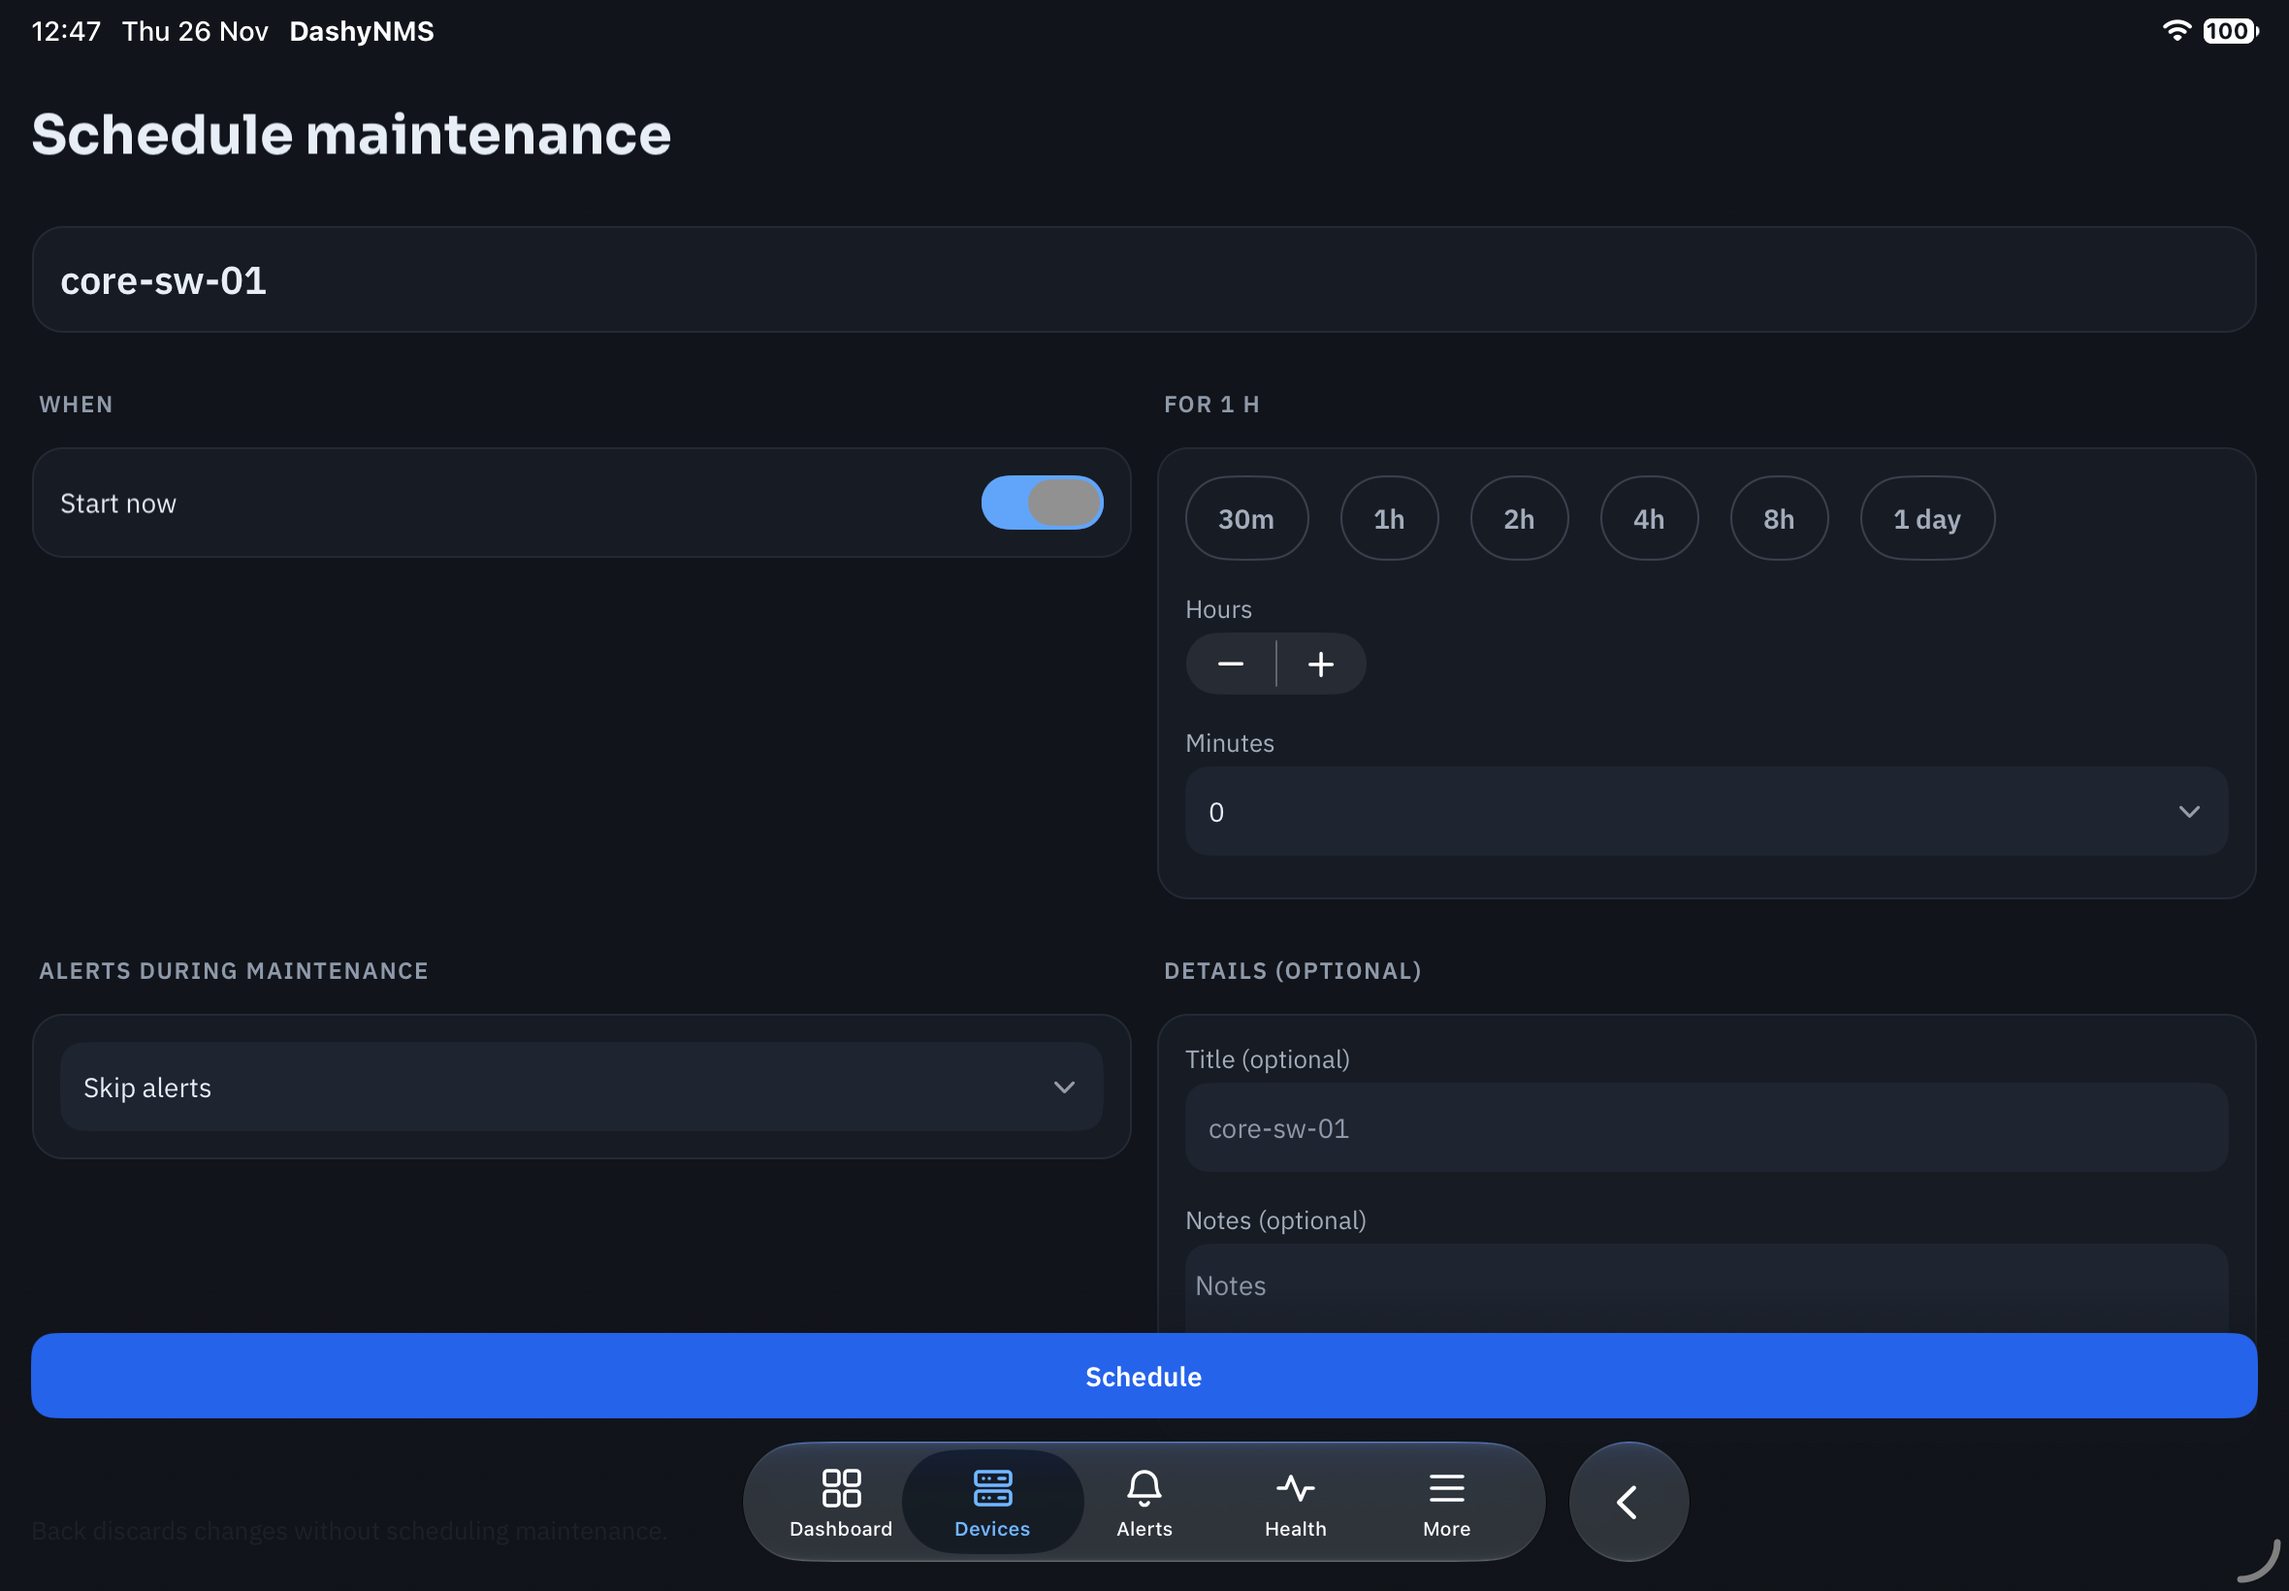
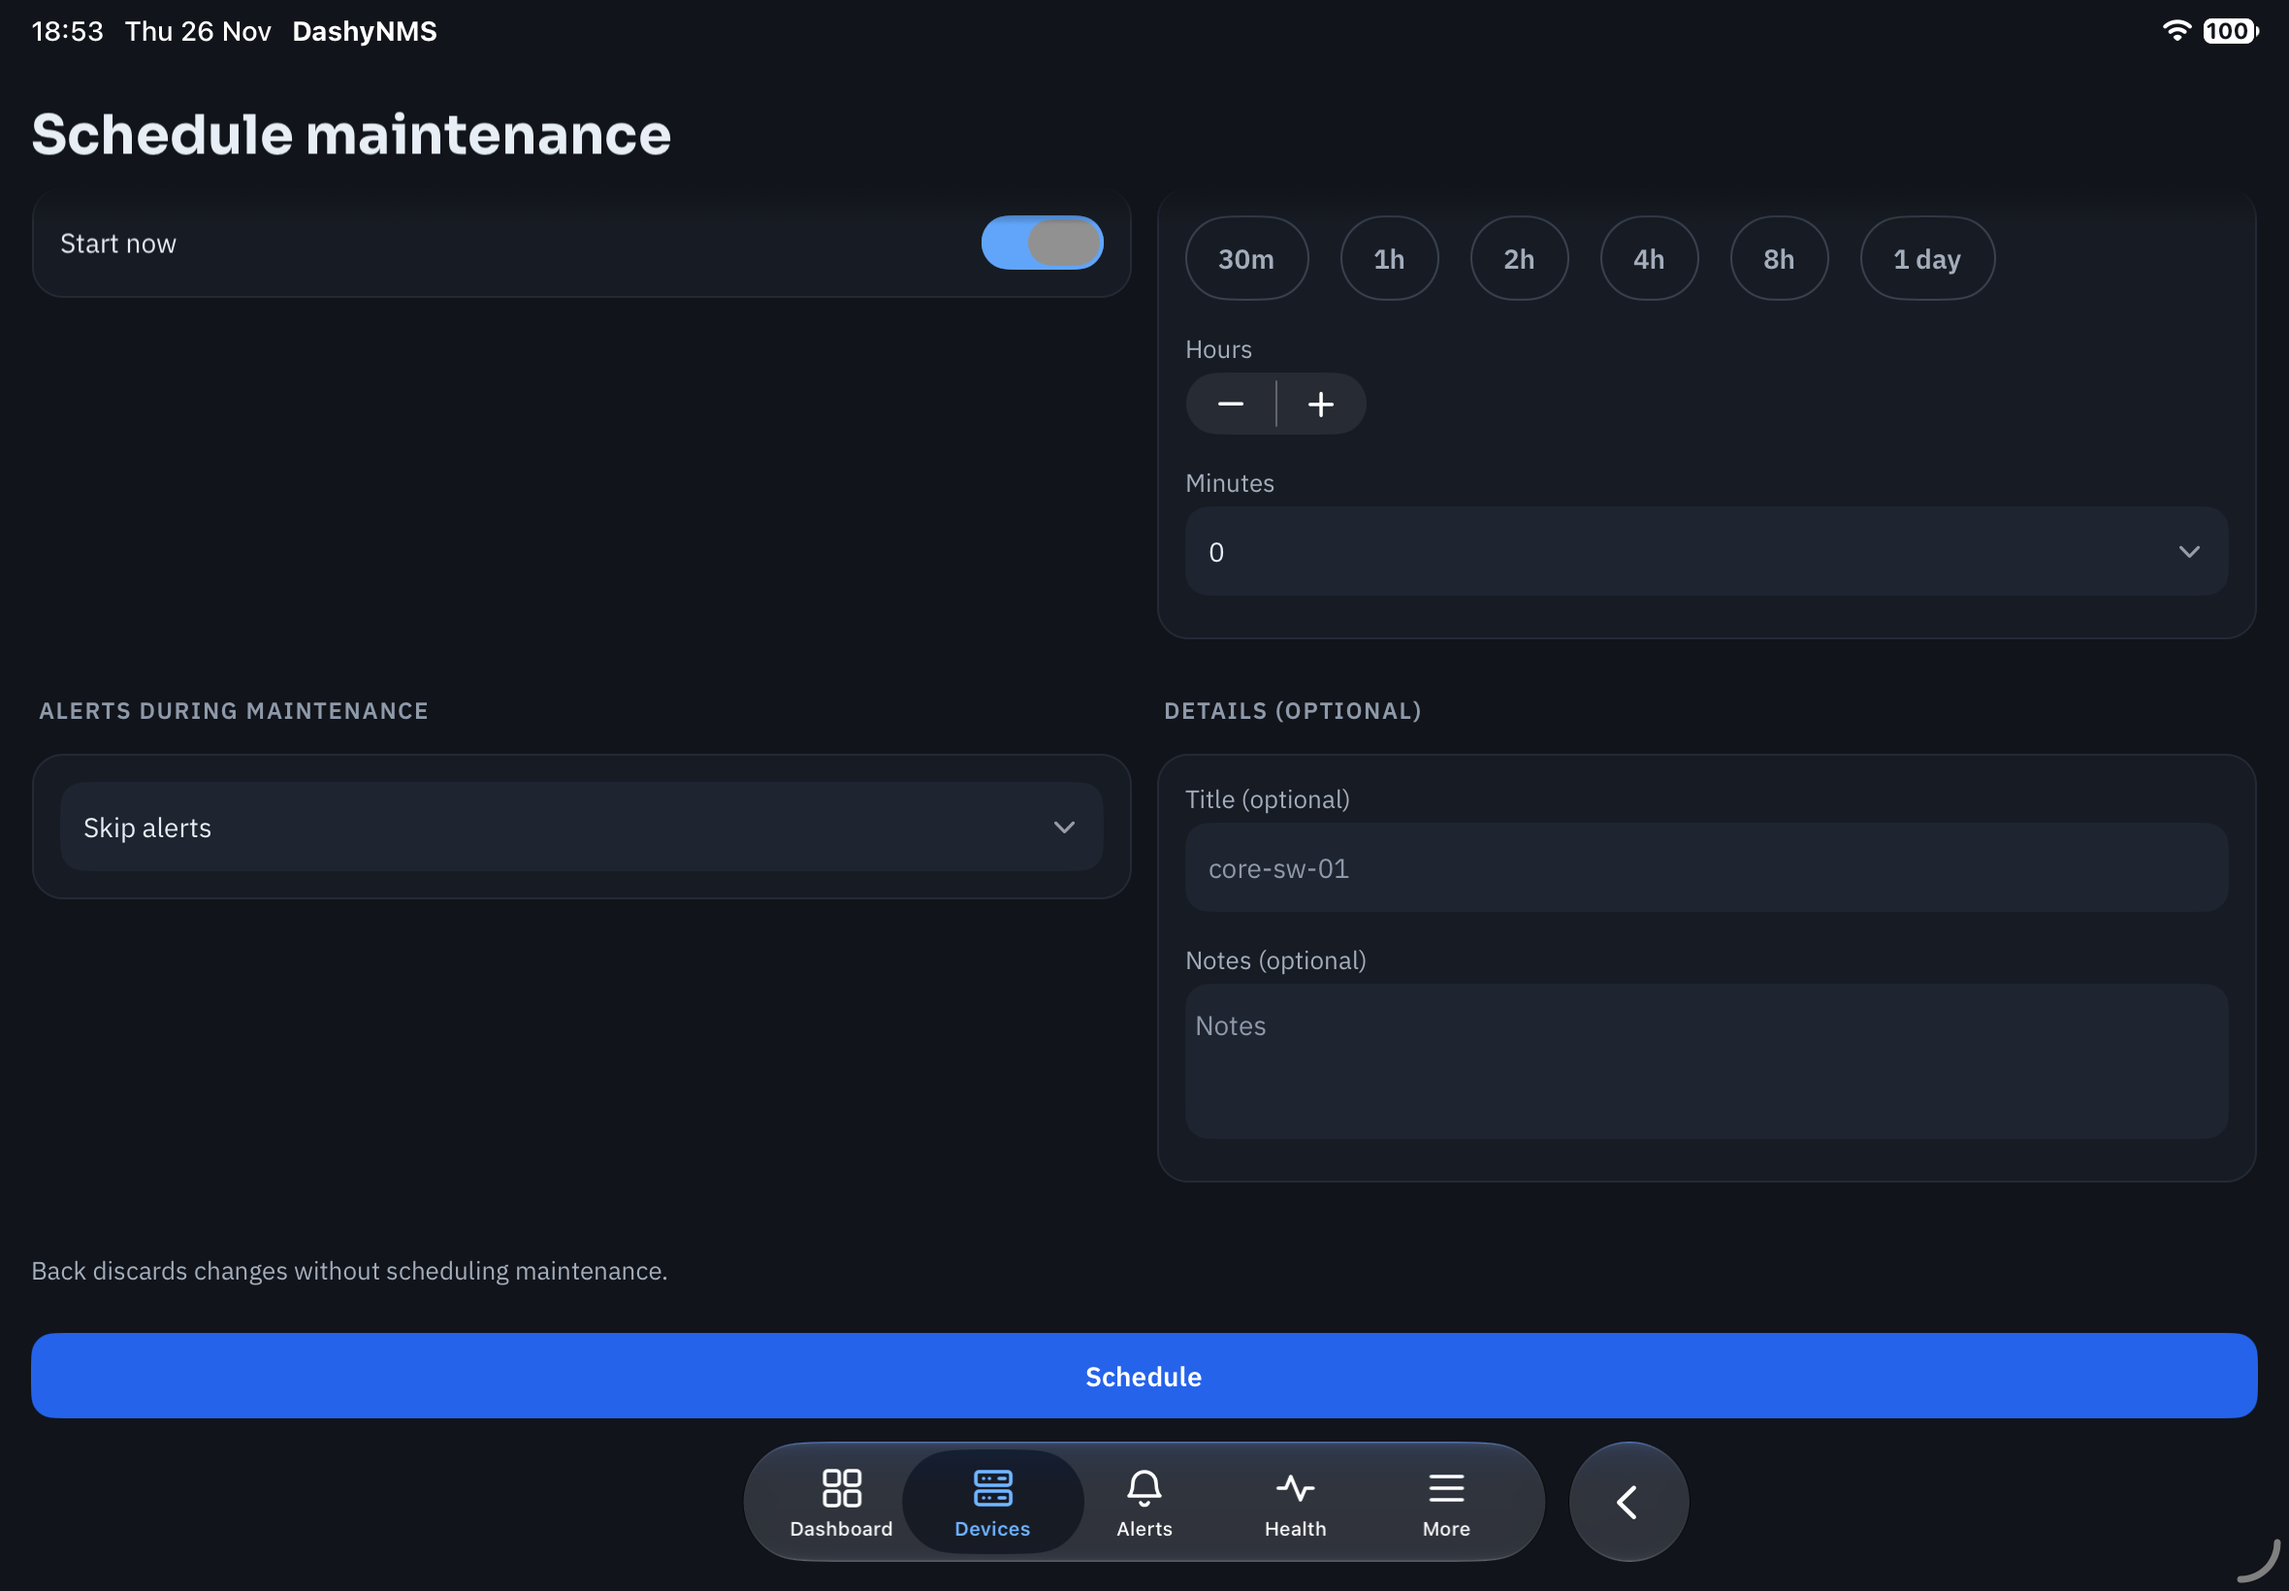
fix(device-details): keep Schedule clear of maintenance fields (#719)
Closes #698

Schedule now sits in a fixed row beneath the scrollable maintenance form
on iOS. Notes and the discard caption can scroll fully into view, with
24 pt at the end of the form. The layout measures the button and the
clearance needed for the glass navigation and docked keyboard.

## Verification

- Demo Mode on iPhone 18 Pro, iPhone Duo folded and unfolded, and iPad
(A16) in portrait and landscape. Checked empty and filled Notes,
scrolling, Schedule, and Back.
- Checked keyboard clearance and draft retention through rotation and
folding. The iPhone form also remained usable at the Accessibility
Medium text size.
- Simulated HTTP 500 and 403 on iPhone. The error scrolled into view and
both responses preserved Notes. A 403 also hid Schedule. The page calls
the existing screen reader announcement for the error. Audible VoiceOver
output still needs a hardware check.
- The iOS simulator build, 2,586 shared tests, 46 policy tests,
repository policy, security scan, and wiki conversion passed locally.
- The native Impeccable review confirmed the action hierarchy and text
contrast. The folded keyboard leaves a short but scrollable viewport,
and server errors still use shared LibreNMS wording.

## Demo Mode captures

| iPhone 18 Pro | iPad (A16), landscape |
| --- | --- |
| <img
src="https://raw.githubusercontent.com/DashyNMS/mobile/1c3389351bfbb77d9930636b8748b3da7afd3554/docs/assets/screenshots/iphone-18-pro/15-device-maintenance-sheet-dark.png"
[…]

diff --git a/src/DashyNMS.Mobile/Pages/MaintenancePage.xaml b/src/DashyNMS.Mobile/Pages/MaintenancePage.xaml
@@ -14,7 +14,7 @@
         <controls:SetupLayout.Body>
         <Grid SafeAreaEdges="None">
         <ScrollView x:Name="FormScroll" SafeAreaEdges="None">
-            <VerticalStackLayout x:Name="ContentColumn" Padding="0,20,0,0" Spacing="12" SafeAreaEdges="None">
+            <VerticalStackLayout Padding="{OnPlatform iOS='0,20,0,24', Default='0,20,0,0'}" Spacing="12" SafeAreaEdges="None">
                 <Border Style="{StaticResource Card}">
                     <Label Text="{Binding DeviceName}" FontSize="20" FontFamily="BodySemibold" LineBreakMode="WordWrap" SemanticProperties.HeadingLevel="Level1" />
                 </Border>
@@ -93,7 +93,7 @@
 
             </VerticalStackLayout>
         </ScrollView>
-        <BoxView HeightRequest="20" VerticalOptions="Start" InputTransparent="True">
+        <BoxView HeightRequest="20" VerticalOptions="Start" InputTransparent="True" AutomationProperties.IsInAccessibleTree="False">
             <BoxView.Background>
                 <LinearGradientBrush StartPoint="0,0" EndPoint="0,1">
                     <GradientStop Offset="0" Color="{AppThemeBinding Light={StaticResource BackgroundLight}, Dark={StaticResource BackgroundDark}}" />
@@ -104,7 +104,7 @@
         </Grid>
         </controls:SetupLayout.Body>
         <controls:SetupLayout.PrimaryAction>
-            <Button Text="Schedule" Clicked="OnScheduleClicked" IsEnabled="{Binding SaveCommand.IsRunning, Converter={StaticResource Invert}}" IsVisible="{Binding MaySchedule}" Margin="0,12,0,0" />
+            <Button Text="Schedule" Clicked="OnScheduleClicked" IsEnabled="{Binding SaveCommand.IsRunning, Converter={StaticResource Invert}}" IsVisible="{Binding MaySchedule}" Margin="{OnPlatform iOS=0, Default='0,12,0,0'}" />
         </controls:SetupLayout.PrimaryAction>
     </controls:SetupLayout>
 </ContentPage>

diff --git a/src/DashyNMS.Mobile/Pages/MaintenancePage.xaml.cs b/src/DashyNMS.Mobile/Pages/MaintenancePage.xaml.cs
@@ -14,8 +14,8 @@ public partial class MaintenancePage : ContentPage, IQueryAttributable, IActiveP
 	{
 		InitializeComponent();
 		BindingContext = _viewModel = viewModel;
-		Setup.OverlayPrimaryAction = true;
-		_layout = new SetupPageLayout(this, Setup, Header, FormScroll) { FullHeight = true };
+		// The fixed action row keeps the form viewport clear of Schedule at every scroll position.
+		_layout = new SetupPageLayout(this, Setup, Header, FormScroll);
 		Setup.SizeChanged += (_, _) => PlaceControls();
 		Setup.PropertyChanged += (_, e) => { if (e.PropertyName == nameof(Padding)) PlaceControls(); };
 	}

diff --git a/docs/DESIGN.md b/docs/DESIGN.md
@@ -368,7 +368,7 @@ Modals that display private chat content (including Spotlight, `IntelligenceRepo
 Use `SetupLayout` (`Header`, `Body`, `PrimaryAction`) with `SetupPageLayout`, constructed once with every scrolling container on the page.
 
 1. Wrap each field in `SetupSection` (label above control, 4pt gap, 8pt between sections). Group related fields in a `Card` under a `SectionHeader`.
-2. On iOS, use `SetupLayout`'s opt-in overlay mode so the body scrolls behind the fixed `PrimaryAction` with a foot fade and `24pt` clearance above the wrapped action height (keeping the `Auto` row on Android).
+2. On iOS, use `SetupLayout`'s opt-in overlay mode so the body scrolls behind the fixed `PrimaryAction` with a foot fade and `24pt` clearance above the wrapped action height. The maintenance form uses the `Auto` action row to keep Notes entirely above Schedule, with `24pt` at the end of the scrolling content. Android uses the `Auto` row.
 3. Align the fixed action's base with a side pill's base, or place it above a bottom pill and its glass, lifting it 12pt above a docked keyboard. `SetupActionPlacement.BottomGap` computes the gap; only one element applies it.
 4. Keep the focused field visible above both the keyboard and the overlaid `PrimaryAction` when the keyboard moves (`ManualKeyboardScroll` acquire/release in pairs, accounting for the visible area above Save rather than raw scroll bounds alone). Re-query live keyboard geometry on fold or rotation.
 5. On a failed save, scroll the error into view, announce it (even on repeated failure) and preserve the draft.

diff --git a/docs/releases/2.0.0.md b/docs/releases/2.0.0.md
@@ -32,6 +32,7 @@ DashyNMS Mobile 2.0 brings Intelligence, alert groups for LibreNMS 26.10, offlin
 
 ## Fixed
 
+- **Schedule maintenance.** On iOS, the form scrolls above **Schedule**, keeping Notes and the discard message clear of the button and navigation controls (#698).
 - **MAC addresses on LibreNMS 26.11.** A device's MAC table shows each address's VLAN number again, for newer servers and older ones.
 - **Sensors with no limits.** A custom sensor with no limits shows its reading without a colour on the dashboard, in the sensor picker and on the widget, rather than green for OK.
 - **Device states in Intelligence.** A device LibreNMS didn't report a state for, or one it ignores, is no longer called up or down, and network counts list them separately.

diff --git a/docs/guide/how-to/maintenance.md b/docs/guide/how-to/maintenance.md
@@ -6,7 +6,7 @@
 2. Leave **Start now** on, or turn it off and choose a date and time. Times are in the LibreNMS server's own time.
 3. Choose how long it lasts.
 4. Under **Alerts during maintenance**, choose **Skip alerts**, **Mute alerts** or **Run alerts as normal**.
-5. Add a title and notes if you like, then choose **Schedule**.
+5. Add a title and notes if you like, then choose **Schedule**. On iOS, the form scrolls above the button.
 
 Back discards the form without scheduling anything. If some devices were refused, DashyNMS says which, and the others are still scheduled. Scheduling needs permission on your LibreNMS account.
 

diff --git a/docs/assets/screenshots/README.md b/docs/assets/screenshots/README.md
@@ -2,6 +2,8 @@
 
 Demo Mode screenshots of DashyNMS Mobile captured from `main` at commit `b512b27` (`v2.0.0-edge.7`). Every screen uses the built-in example network (`*.example.net` and RFC 5737 test addresses). Sign-in screens show only the empty `nms.example.com` placeholder.
 
+The iPhone 18 Pro and iPad Schedule maintenance screenshots were retaken for #698.
+
 ## Device folders
 
 | Device | Folder | Files | Native size | Poses and themes |
